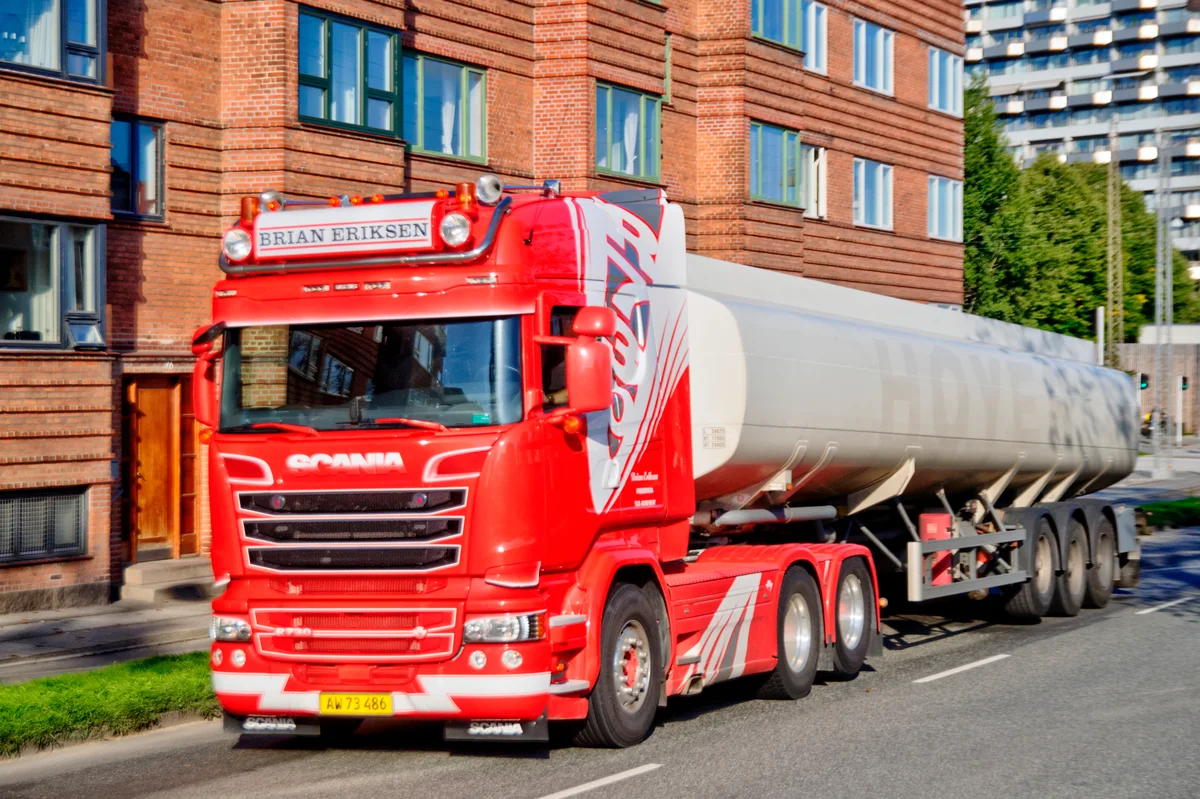
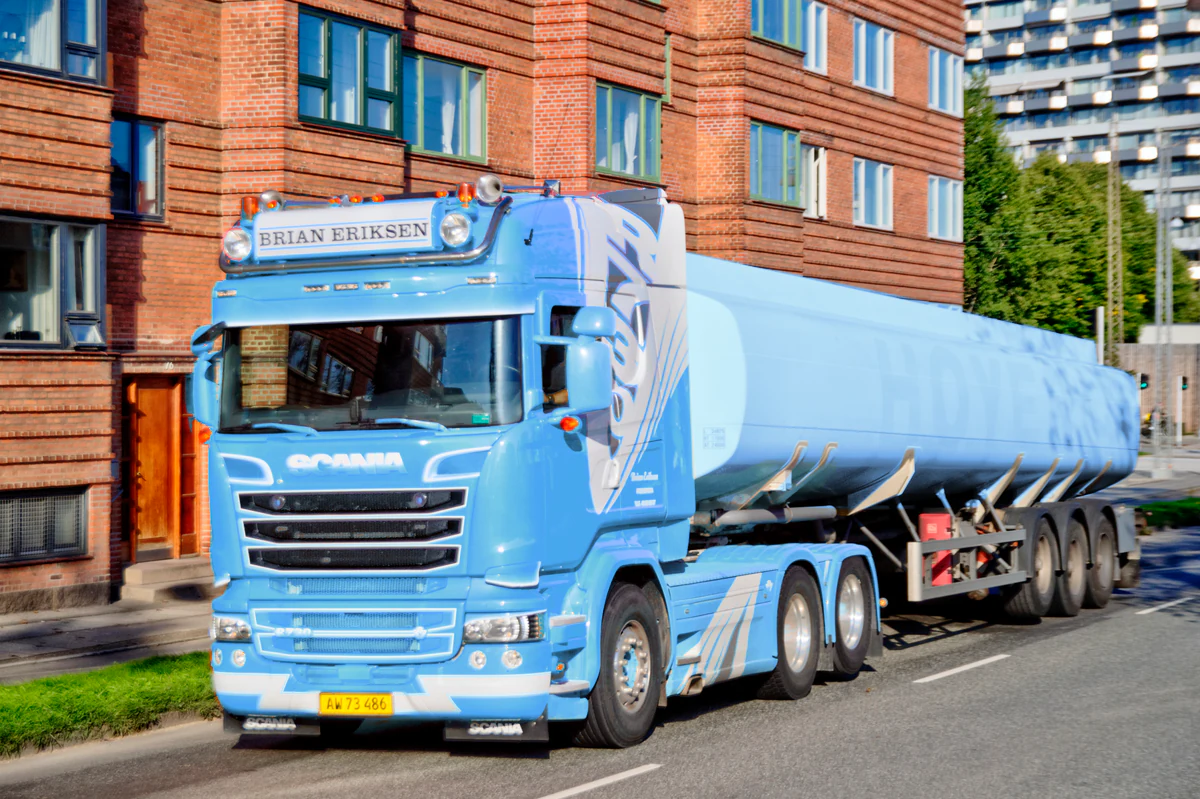
Recolour the Scania tractor and tanker in sky blue

Changed region(s): [[0.1542, 0.2103, 0.9558, 0.9312]]

diff --git a/landing/static/landing/css/style.css b/landing/static/landing/css/style.css
@@ -128,9 +128,6 @@ h2 { font-size: clamp(1.7rem, 3.2vw, 2.6rem); }
 .hero__form h3 { color: #fff; font-size: 1.7rem; margin-bottom: 8px; }
 .truck-photo { margin: 0 0 22px; }
 .truck-photo img { display: block; width: 100%; height: auto; border-radius: var(--radius-sm); }
-.truck-photo figcaption { margin-top: 7px; font-size: .8rem; color: #d7e3ee; }
-.truck-photo small { display: block; }
-.truck-photo a { text-decoration: underline; text-underline-offset: .16em; }
 .hero__form > p { color: #b9c7da; font-size: 1.12rem; margin-bottom: 26px; }
 .hero__form .btn { font-size: 1.18rem; padding: 19px 30px; }
 .hero__form-note { display: flex; gap: 11px; align-items: flex-start; margin-top: 22px; font-size: 1rem; color: #9fb1c7; }
@@ -235,6 +232,10 @@ h2 { font-size: clamp(1.7rem, 3.2vw, 2.6rem); }
 .footer { background: var(--navy); color: #c2d0e3; padding: 60px 0 24px; }
 .footer__inner { display: grid; grid-template-columns: 2fr 1fr 1fr; gap: 40px; padding-bottom: 36px; border-bottom: 1px solid rgba(255,255,255,.1); }
 .footer__brand p { margin-top: 16px; max-width: 420px; font-size: .96rem; color: #9fb1c7; }
+.photo-credit { margin-top: 12px; color: #b9c9da; font-size: .82rem; }
+.photo-credit summary { width: fit-content; cursor: pointer; }
+.photo-credit p { margin-top: 5px; font-size: inherit; overflow-wrap: anywhere; }
+.photo-credit a { text-decoration: underline; text-underline-offset: .16em; }
 .footer__col h4 { color: #fff; font-size: 1.02rem; margin-bottom: 16px; }
 .footer__col a, .footer__col span { display: block; color: #9fb1c7; margin-bottom: 10px; font-size: .96rem; }
 .footer__col a:hover { color: var(--cyan); }

diff --git a/landing/templates/landing/index.html b/landing/templates/landing/index.html
@@ -221,6 +221,10 @@
                 <span class="logo__text">{{ site.company }}</span>
             </a>
             <p>{{ site.tagline }} из Иваново. Собственный парк, договор и сопроводительные документы.</p>
+            <details class="photo-credit">
+                <summary>Об изображении</summary>
+                <p>Lav Ulv · <cite><a href="https://commons.wikimedia.org/?curid=78303301">AW73486 (17.09.21, Marselis Boulevard, Stadion Allé)DSC_7372_Balancer</a></cite> · <a href="https://creativecommons.org/licenses/by/2.0/" rel="license">CC BY 2.0</a>. Цвет кабины и цистерны изменён.</p>
+            </details>
         </div>
         <div class="footer__col">
             <h4>Разделы</h4>

diff --git a/landing/templates/landing/truck.html b/landing/templates/landing/truck.html
@@ -1,8 +1,4 @@
 {% load static %}
 <figure class="truck-photo">
-    <img src="{% static 'landing/img/scania-r730.webp' %}" width="1200" height="799" alt="Красный тягач Scania R 730 с полуприцепом-цистерной HOYER" fetchpriority="high">
-    <figcaption>
-        <span>Scania R 730 с полуприцепом-цистерной</span>
-        <small><a href="https://commons.wikimedia.org/?curid=78303301">Фото Lav Ulv</a> · <a href="https://creativecommons.org/licenses/by/2.0/" rel="license">CC BY 2.0</a></small>
-    </figcaption>
+    <img src="{% static 'landing/img/scania-r730.webp' %}" width="1200" height="799" alt="Голубая Scania R 730 с полуприцепом-цистерной HOYER" fetchpriority="high">
 </figure>
